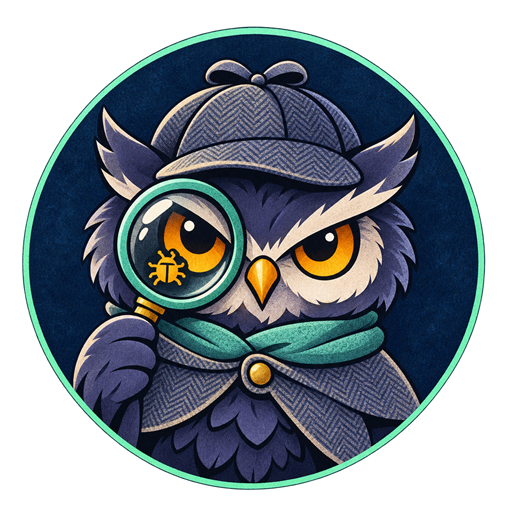
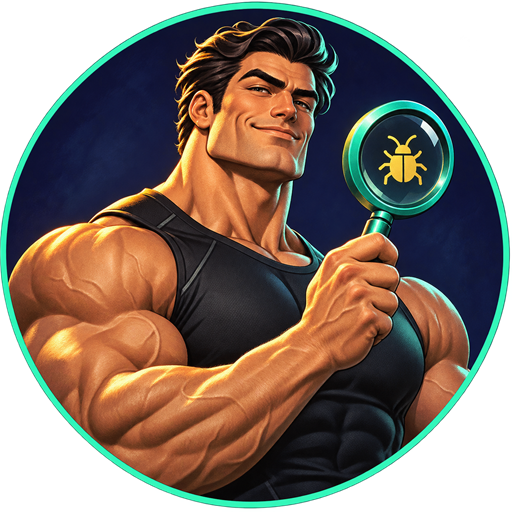
Replace README mascot and tighten project copy

diff --git a/README.md b/README.md
@@ -1,33 +1,32 @@
 <p align="center">
-  <img src="assets/qa-sidekick.png" width="220" alt="QA Sidekick, a detective owl spotting a software bug through a magnifying glass">
+  <img src="assets/qa-sidekick.png" width="220" alt="QA Sidekick, a muscular tester holding a magnifying glass over a software bug">
 </p>
 
 <h1 align="center">QA Sidekick</h1>
 
-<p align="center"><em>Find what matters. Show what happened.</em></p>
-
-QA Sidekick helps software testers do the QA work in front of them. Describe a task in plain language and get help with the next decision, a practical test plan, test cases, functional test code, a defect report, or a release status update.
-
-The project starts as a Codex skill for QA practitioners at any experience level, with particular care for people who are new to QA or AI. It uses established testing practices and adapts to the team's tools, templates, and evidence.
+A Codex skill for reviewing requirements, planning tests, writing functional checks, and reporting bugs or release status.
 
 ## Try it in Codex
 
-Open this repository from the branch containing the skill. In a Codex client that supports local skills, select `$qa-sidekick` and describe your own task. From the repository root, Codex looks for repository skills under `.agents/skills`. To reuse it in another project, copy the complete skill directory into that project's `.agents/skills` directory. [Codex skill documentation](https://learn.chatgpt.com/docs/build-skills#where-codex-loads-local-skills)
+Open this repository in Codex and start your prompt with `$qa-sidekick`. To use the skill in another project, copy `.agents/skills/qa-sidekick` into that project's `.agents/skills` directory. [Codex skill documentation](https://learn.chatgpt.com/docs/build-skills#where-codex-loads-local-skills)
 
-For example, use the instruction that fits the work you already have.
+- I have 20 minutes to test this ticket. Which checks come first?
+- Review these test cases for gaps. Keep our format.
+- Write a functional test with this repo's fixtures. Run it if you can and report the result.
+- Turn these notes into a Jira draft in English. Flag anything I still need to confirm.
 
-- “I have 20 minutes for this ticket. Read the acceptance criteria and tell me what to check first.”
-- “Review these cases for gaps. Keep the team's format and flag any assumptions.”
-- “Write a functional test using the fixtures and conventions in this repo. Tell me whether it ran.”
-- “Turn my observations into a Jira draft in English. Mark what still needs confirmation.”
+## Run the checks
 
-Use approved work materials or synthetic examples when trying it.
+Use Node.js 24 and sign in to Codex CLI before collecting responses.
 
-## Review CLI responses
+```sh
+node validation/run-cli-checks.mjs                 # Four smoke scenarios
+node validation/run-cli-checks.mjs --all --dry-run  # List scenarios without sending requests
+node validation/run-cli-checks.mjs --all            # Collect responses for all 28 scenarios
+node --test validation/cart.test.mjs validation/result-files.test.mjs
+```
 
-With Node.js and Codex CLI installed and signed in, run `node validation/run-cli-checks.mjs` for four smoke scenarios, or add `--all` for the full set. Use `--all --dry-run` to list scenarios without sending requests. Results go into a new directory under `.qa-results`; the runner refuses to overwrite existing evidence. A captured response still needs review against its accompanying criteria, and does not by itself prove skill activation.
-
-Run `node --test validation/result-files.test.mjs` to check the result-file protection.
+Review each response against its criteria in `.qa-results`. Use client events to verify skill activation when they are available.
 
 ## Project files
 

diff --git a/.agents/skills/qa-sidekick/references/qa-workflow.md b/.agents/skills/qa-sidekick/references/qa-workflow.md
@@ -1,7 +1,5 @@
 # QA workflow
 
-Adapt the following activities to the team's process and the user's current decision. A short answer or artifact often suffices.
-
 ## Review the ticket
 
 Extract the change, affected users or flows, expected outcomes, and existing constraints. Identify the source of each important requirement when available. Resolve ambiguity that changes the outcome or priority first. Give the user a concrete question they can send to the team if the answer is outside their knowledge.
@@ -10,7 +8,7 @@ Extract the change, affected users or flows, expected outcomes, and existing con
 
 Prioritize by likely failure and impact on the user or business. Consider affected integrations, data changes, and adjacent workflows. State what is in scope, what is deferred, and why. Identify the environment, data, or dependency that could block a meaningful check. If time is limited, put the checks most likely to change the decision first and name the main remaining risk.
 
-A strategy describes the approach and tradeoffs. A plan translates them into scope, checks, dependencies, and decision criteria as needed. Combine these in a short deliverable when that fits the request.
+A strategy explains the approach and tradeoffs. A plan lists the scope, checks, dependencies, and decision criteria.
 
 For a narrow visual change, check the change itself and any relevant existing behavior. When prior behavior or the design is unavailable, state what to compare or verify conditionally. For example, an icon change alone does not establish that the control opens a panel.
 
@@ -24,7 +22,7 @@ For a narrow visual change, check the change itself and any relevant existing be
 
 ## Execute and investigate
 
-Capture environment and build, case or charter, relevant data conditions, and actual observations. Use the team's statuses. If the team has no convention, distinguish passed, failed, blocked, and not run. A failed check is a signal to investigate. Compare plausible causes in the product, test, environment, and data. Suggest the quickest check that distinguishes the leading explanations.
+Capture environment and build, case or charter, relevant data conditions, and actual observations. Use the team's statuses. If the team has no convention, distinguish passed, failed, blocked, and not run. Compare plausible causes in the product, test, environment, and data. Suggest the quickest check that distinguishes the leading explanations.
 
 When a request can change state and its response is inconclusive, report the response and the resulting state separately. For example, after an order request times out, look up the original attempt by request ID or another reliable key before retrying. If lookup is unavailable, keep the outcome unknown and identify the evidence or documented idempotency guarantee needed before retrying.
 
@@ -38,4 +36,4 @@ Summarize what was tested and where, the results and their evidence, unresolved 
 
 If a required check is blocked or not run, identify the unmet release criterion and what would provide evidence for it. If the team has a waiver process, surface the unresolved risk and the decision owner and record whether a waiver was actually granted.
 
-Sources for test activities, test techniques, prioritization, product risk and defect management are in sections 1.4 and chapters 4–5 of the [ISTQB CTFL v4.0.1 syllabus](https://istqb.org/wp-content/uploads/2024/11/ISTQB_CTFL_Syllabus_v4.0.1.pdf).
+Sources for test activities, test techniques, prioritization, product risk and defect management are in sections 1.4 and chapters 4 and 5 of the [ISTQB CTFL v4.0.1 syllabus](https://istqb.org/wp-content/uploads/2024/11/ISTQB_CTFL_Syllabus_v4.0.1.pdf).

diff --git a/.agents/skills/qa-sidekick/SKILL.md b/.agents/skills/qa-sidekick/SKILL.md
@@ -5,21 +5,21 @@ description: Review testable requirements, plan and design risk-based software t
 
 # QA Sidekick
 
-Work on the user's actual QA task from wherever they are in the process. Deliver the requested plan, review, test cases, code, report, or next action. Use the user's language by default and honor a different language requested for work artifacts.
+Deliver the requested QA artifact or action. Use the user's language unless they ask for a different language for the artifact.
 
-## Start with the work in front of you
+## Read the requirements and evidence
 
 - Read the available ticket, acceptance criteria, project conventions, or test evidence relevant to the request. Reuse earlier decisions in the conversation. Follow team terminology and templates when available.
-- Identify the intended outcome and the gaps that materially change it. With an ambiguous request such as “test whether the card works,” first ask whether this is a payment card, a UI card, or another type of card. Ask only the highest-impact questions. If enough is known to do useful work, draft the confirmed parts and mark unresolved points.
+- Clarify gaps that change the tests or expected results. If asked to test an unspecified card, find out whether it is a payment card or a UI component. Draft any checks you can support and mark open questions.
 - Treat explicit requirements and confirmed decisions as the source for expected behavior. Treat current application behavior as an observation. Label assumptions, unknowns, and conflicting evidence. Where the expected result is unresolved, provide an exploratory check or a question for the team.
-- Match the amount of guidance to the user's needs. For someone unfamiliar with the task, offer a concrete next step in plain language. For someone asking for a specific artifact, produce it directly. For a reviewer, point to the consequential gaps and tradeoffs.
+- Give beginners a concrete next step. When reviewing existing work, name the gaps that affect coverage or a decision.
 
-## Help through the QA workflow
+## Choose the reference
 
 - For scoping, planning, manual design, execution, defect triage, or completion, use [QA workflow](references/qa-workflow.md).
 - For creating, reviewing, running, or troubleshooting functional test code, API checks, or read-only SQL verification, use [Functional automation](references/functional-automation.md).
-- For ongoing work, carry forward confirmed scope, open decisions, and actual execution results. End with a specific next action or reminder when it would change the outcome. Use a short handoff summary when requested.
-- Scale the process to risk, change size, and time. For a small fix, a few focused checks may be sufficient. For a high-impact change, surface dependencies, data needs, regression scope, and unresolved risk. Support the stage the user is in and revisit earlier decisions when new evidence changes them.
+- For ongoing work, carry forward confirmed scope, open decisions, and actual execution results. Name the next action if it changes the outcome.
+- Scale the checks to the risk and time available. For high-risk changes, name the dependencies, test data, regression scope, and remaining risk.
 
 ## Preserve the evidence
 

diff --git a/docs/behavior-review.md b/docs/behavior-review.md
@@ -15,7 +15,7 @@ We tried 30 independent QA scenarios and repeated the four requests that exposed
 | A draft inferred the cause of an earlier blocker | Preserve the stated facts. On repeat, the agent removed the assumed cause but initially called the earlier check a retest. It then corrected its answer. The final timeline clarification still needs an independent retry. |
 | A Cypress persistence check could pass if the name was already the expected value | Add a distinct starting value as setup or a precondition. The repeated response asserted it before saving. |
 
-These probes reviewed assistant responses and generated code as text. They did not verify automatic skill discovery or execute the generated tests against software.
+The review covered response text and code samples. Automatic skill discovery and execution of the generated tests were out of scope.
 
 ## Executable regression check
 

diff --git a/ROADMAP.md b/ROADMAP.md
@@ -18,5 +18,3 @@
 - Publish a small set of copyable requests organized by work stage and include setup for reuse in other projects.
 - Decide the license with the repository owner before calling a release open source.
 - Evaluate plugin packaging after the repo-scoped skill is verified.
-
-Prioritize improvements from observed QA work and reproducible failures. The product should help the user complete their own work at whichever stage they start.
